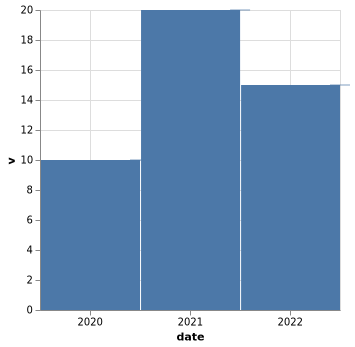
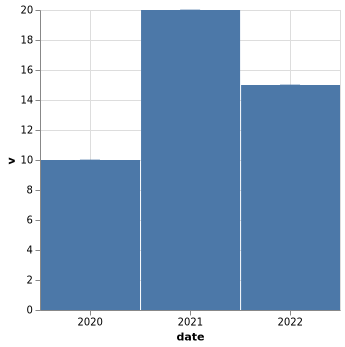
fix: honor `timeUnitBandPosition` for tick/rect marks with explicit `size`
In `positionAndSize`, the center ref used a hardcoded `bandPosition` of 0.5,
so `config.tick.timeUnitBandPosition` (and `bandPosition` on a timeUnit
field) was silently ignored whenever an explicit `size` forced the
tick/rect code path. This misaligned the tick from a bar sharing the same
`timeUnitBandPosition` config.

Derive `bandPosition` via `getBandPosition({fieldDef, markDef, config})`
when the field has a `timeUnit` and no secondary channel def, matching
the behavior of `rectBinPosition`.

Fixes #9836

diff --git a/test/compile/mark/encode/position-rect.test.ts b/test/compile/mark/encode/position-rect.test.ts
@@ -75,6 +75,83 @@ describe('compile/mark/encode/position-rect', () => {
       expect((props.x2 as any).field).toBe(`yearmonth_date_${OFFSETTED_RECT_START_SUFFIX}`);
     });
 
+    it('produces correct xc for tick with explicit size and timeUnitBandPosition = 0', () => {
+      // https://github.com/vega/vega-lite/issues/9836
+      const model = parseUnitModelWithScaleAndLayoutSize({
+        data: {values: []},
+        mark: {type: 'tick', size: {expr: '20'}},
+        encoding: {
+          x: {timeUnit: 'binnedutcyear', field: 'date', type: 'temporal'},
+          y: {field: 'v', type: 'quantitative'},
+        },
+        config: {tick: {timeUnitBandPosition: 0}},
+      });
+
+      const props = rectPosition(model, 'x');
+      // With bandPosition=0, the tick center should sit on the bin start
+      // (the raw `date` field), matching the bar's center under the same
+      // timeUnitBandPosition: 0 config.
+      expect((props.xc as any).scale).toBe('x');
+      expect((props.xc as any).field).toBe('date');
+    });
+
+    it('uses bandPosition 0 for a centered bar with explicit size and xOffset encoding', () => {
+      // Exercises the `offsetType === 'encoding' ? 0 : 0.5` branch of
+      // `positionAndSize`. The explicit `size` forces center alignment; the
+      // sub-band shift then comes from the xOffset encoding.
+      const model = parseUnitModelWithScaleAndLayoutSize({
+        data: {values: []},
+        mark: {type: 'bar', size: 20},
+        encoding: {
+          x: {field: 'a', type: 'nominal'},
+          xOffset: {field: 'b', type: 'nominal'},
+          y: {field: 'c', type: 'quantitative'},
+        },
+      });
+
+      const props = rectPosition(model, 'x');
+      expect((props.xc as any).scale).toBe('x');
+      expect((props.xc as any).field).toBe('a');
+      expect((props.xc as any).offset?.scale).toBe('xOffset');
+      expect((props.xc as any).offset?.field).toBe('b');
+    });
+
+    it('produces correct x for a left-aligned bar with signal bandSize', () => {
+      // Exercises the `isSignalRef(bandSize)` branch of the
+      // non-center position expression in `positionAndSize`.
+      const model = parseUnitModelWithScaleAndLayoutSize({
+        data: {values: []},
+        mark: {type: 'bar', align: 'left', size: {signal: 's'}},
+        encoding: {
+          x: {field: 'a', type: 'nominal'},
+          y: {field: 'b', type: 'quantitative'},
+        },
+      });
+
+      const props = rectPosition(model, 'x');
+      // A signal-valued band size drops into the `(1-${bandSize})/2` branch.
+      expect((props.x as any).band?.signal).toContain('(1-');
+      expect((props.width as any).signal).toBe('s');
+    });
+
+    it('produces correct x for a left-aligned bar with numeric size', () => {
+      // Exercises the final `: 0` fallback branch of the non-center
+      // position expression in `positionAndSize`.
+      const model = parseUnitModelWithScaleAndLayoutSize({
+        data: {values: []},
+        mark: {type: 'bar', align: 'left', size: 20},
+        encoding: {
+          x: {field: 'a', type: 'nominal'},
+          y: {field: 'b', type: 'quantitative'},
+        },
+      });
+
+      const props = rectPosition(model, 'x');
+      expect((props.x as any).scale).toBe('x');
+      expect((props.x as any).field).toBe('a');
+      expect(props.width).toEqual({value: 20});
+    });
+
     it('produces correct x-mixins for binned data with step and start field, without end field', () => {
       const model = parseUnitModelWithScaleAndLayoutSize({
         data: {values: []},

diff --git a/src/compile/mark/encode/position-rect.ts b/src/compile/mark/encode/position-rect.ts
@@ -222,6 +222,27 @@ function positionAndSize(
   const center = vgChannel === 'xc' || vgChannel === 'yc';
   const {offset, offsetType} = positionOffset({channel, markDef, encoding, model, bandPosition: center ? 0.5 : 0});
 
+  // When a rect-based mark has an explicit size on a timeUnit-binned field,
+  // honor `timeUnitBandPosition` so this path stays aligned with the
+  // `rectBinPosition` path used by bars without an explicit size.
+  // See https://github.com/vega/vega-lite/issues/9836.
+  const timeUnitBandPosition =
+    isFieldDef(fieldDef) && fieldDef.timeUnit && !encoding[channel2]
+      ? getBandPosition({fieldDef, markDef, config})
+      : undefined;
+
+  const bandPosition =
+    timeUnitBandPosition ??
+    (center
+      ? offsetType === 'encoding'
+        ? 0
+        : 0.5
+      : isSignalRef(bandSize)
+        ? {signal: `(1-${bandSize})/2`}
+        : isRelativeBandSize(bandSize)
+          ? (1 - bandSize.band) / 2
+          : 0);
+
   const posRef = ref.midPointRefWithPositionInvalidTest({
     channel,
     channelDef: fieldDef,
@@ -232,15 +253,7 @@ function positionAndSize(
     stack,
     offset,
     defaultRef: pointPositionDefaultRef({model, defaultPos: 'mid', channel, scaleName, scale}),
-    bandPosition: center
-      ? offsetType === 'encoding'
-        ? 0
-        : 0.5
-      : isSignalRef(bandSize)
-        ? {signal: `(1-${bandSize})/2`}
-        : isRelativeBandSize(bandSize)
-          ? (1 - bandSize.band) / 2
-          : 0,
+    bandPosition,
   });
 
   if (vgSizeChannel) {
